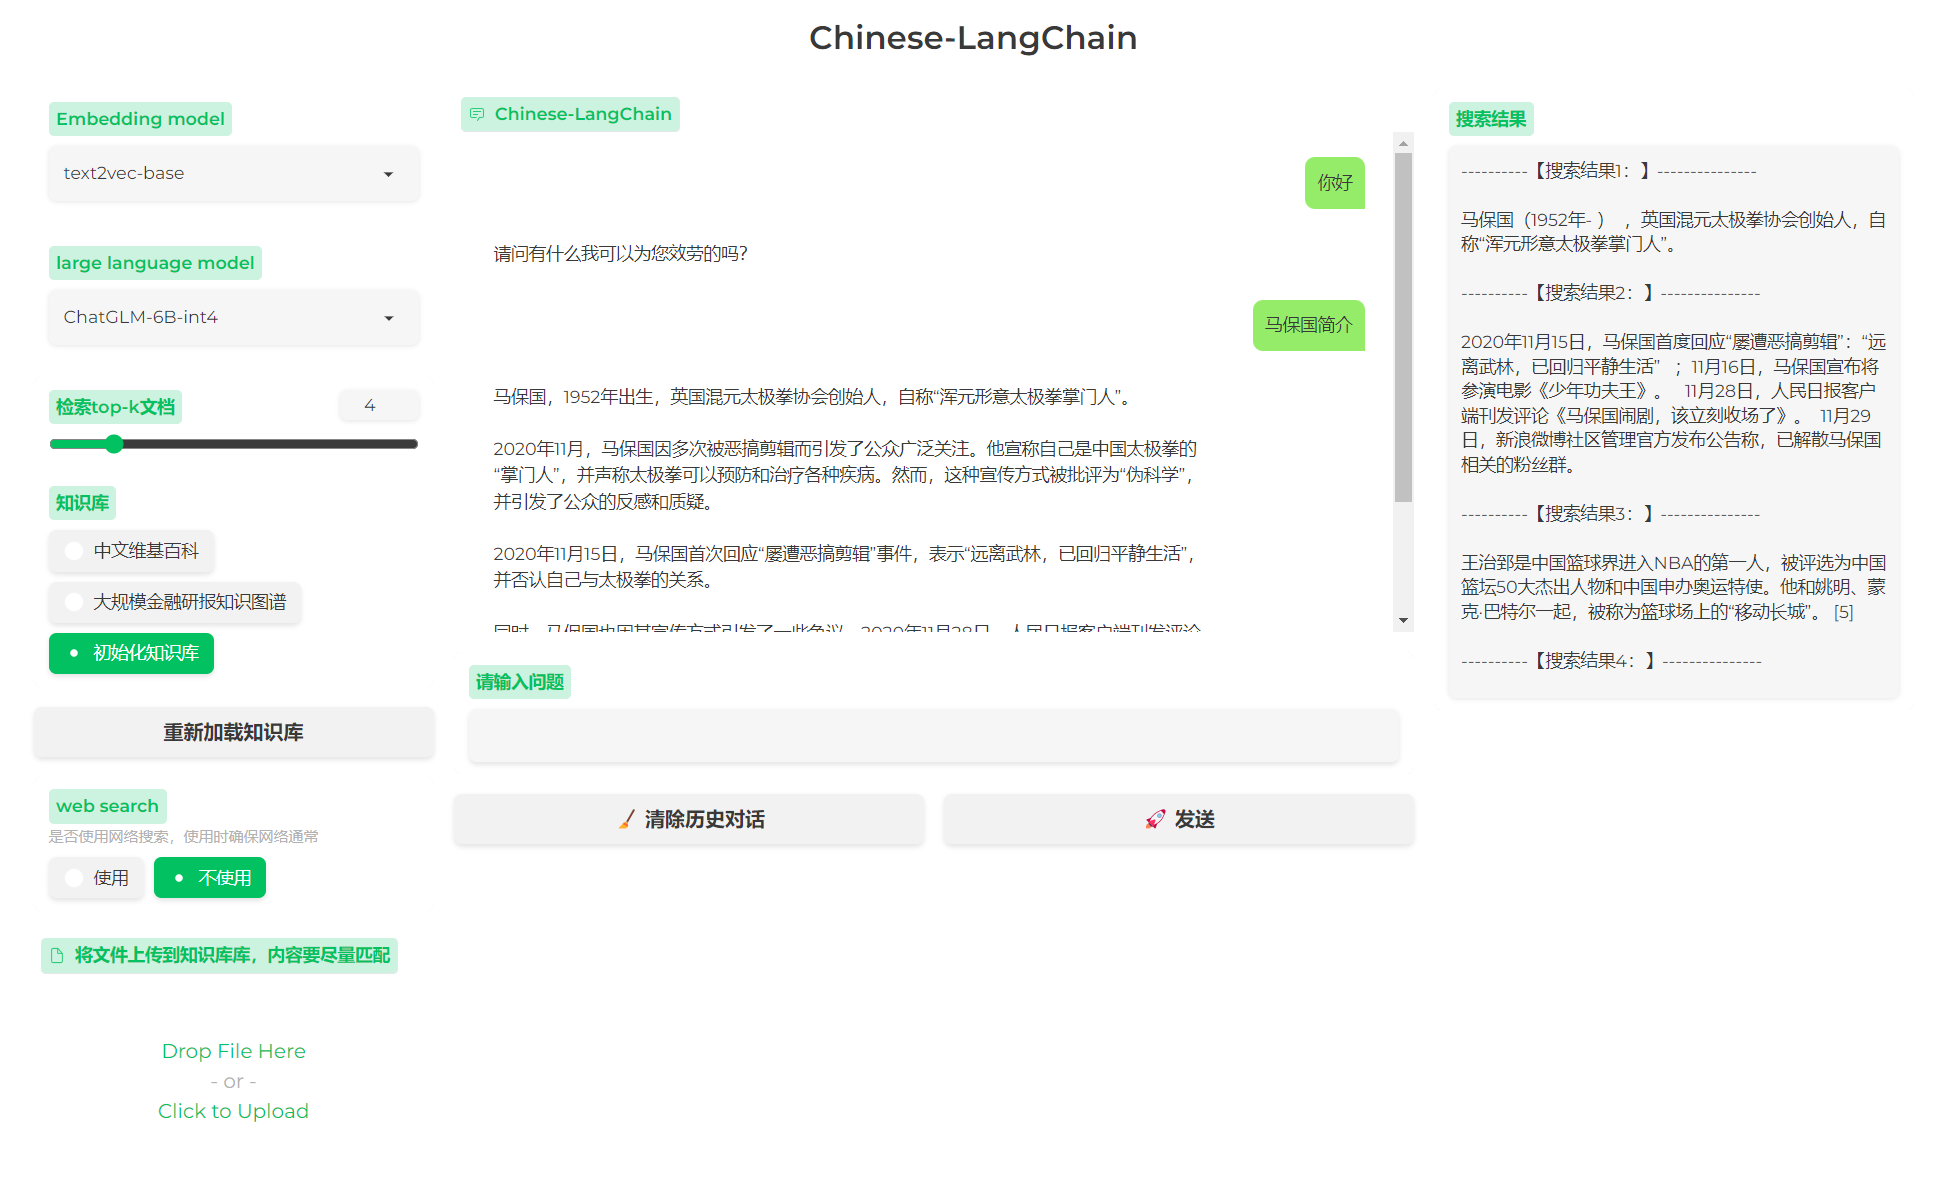
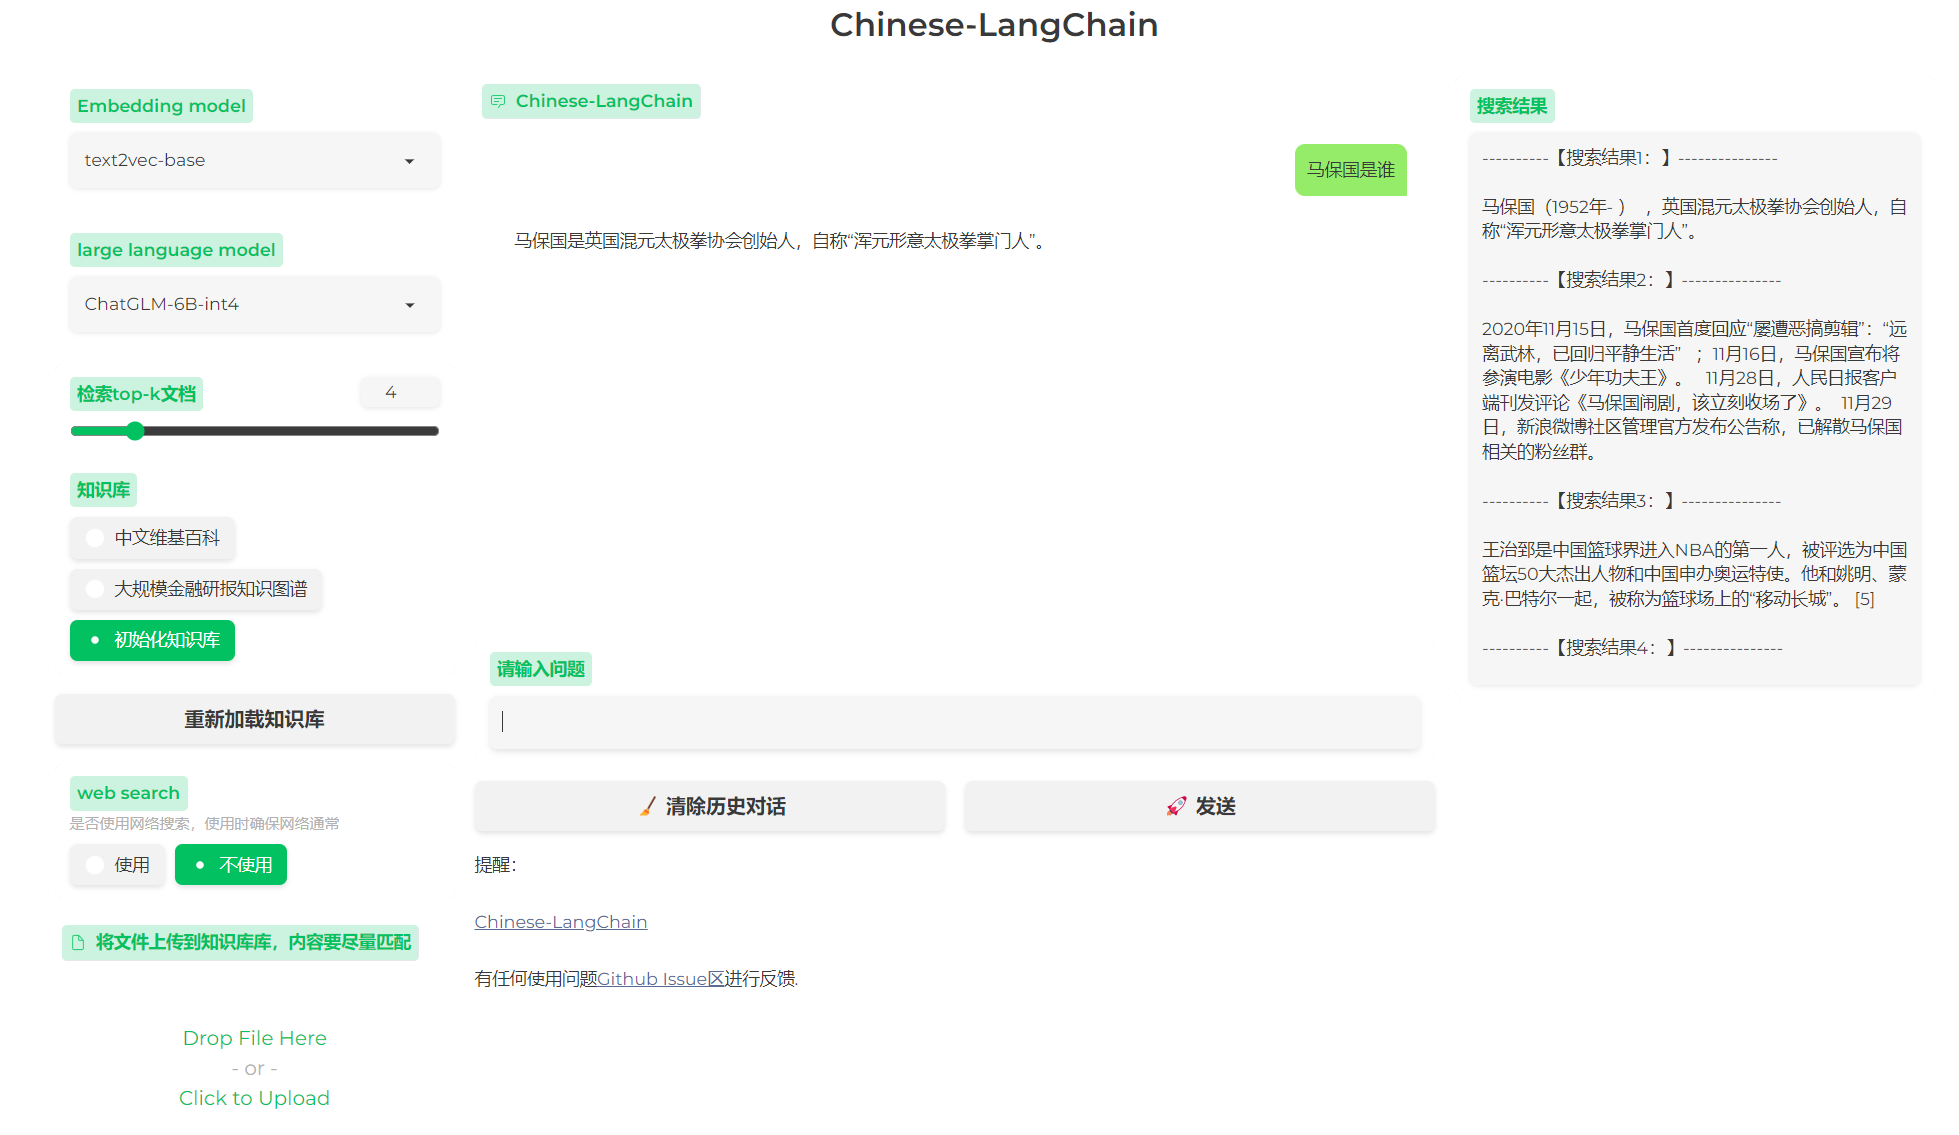
update@web_demo

diff --git a/app_modules/utils.py b/app_modules/utils.py
@@ -1,32 +1,16 @@
 # -*- coding:utf-8 -*-
 from __future__ import annotations
-from typing import TYPE_CHECKING, Any, Callable, Dict, List, Tuple, Type
-import logging
-import json
-import os
-import datetime
-import hashlib
-import csv
-import requests
-import re
-import html
-import markdown2
-import torch
-import sys
-import gc
-from pygments.lexers import guess_lexer, ClassNotFound
 
-import gradio as gr
-from pypinyin import lazy_pinyin
-import tiktoken
+import html
+import logging
+import re
+
 import mdtex2html
 from markdown import markdown
 from pygments import highlight
-from pygments.lexers import guess_lexer, get_lexer_by_name
 from pygments.formatters import HtmlFormatter
-import transformers
-from peft import PeftModel
-from transformers import GenerationConfig, LlamaForCausalLM, LlamaTokenizer
+from pygments.lexers import ClassNotFound
+from pygments.lexers import guess_lexer, get_lexer_by_name
 
 from app_modules.presets import *
 
@@ -241,142 +225,3 @@ class State:
 
 
 shared_state = State()
-
-
-# Greedy Search
-def greedy_search(input_ids: torch.Tensor,
-                  model: torch.nn.Module,
-                  tokenizer: transformers.PreTrainedTokenizer,
-                  stop_words: list,
-                  max_length: int,
-                  temperature: float = 1.0,
-                  top_p: float = 1.0,
-                  top_k: int = 25) -> Iterator[str]:
-    generated_tokens = []
-    past_key_values = None
-    current_length = 1
-    for i in range(max_length):
-        with torch.no_grad():
-            if past_key_values is None:
-                outputs = model(input_ids)
-            else:
-                outputs = model(input_ids[:, -1:], past_key_values=past_key_values)
-            logits = outputs.logits[:, -1, :]
-            past_key_values = outputs.past_key_values
-
-            # apply temperature
-            logits /= temperature
-
-            probs = torch.softmax(logits, dim=-1)
-            # apply top_p
-            probs_sort, probs_idx = torch.sort(probs, dim=-1, descending=True)
-            probs_sum = torch.cumsum(probs_sort, dim=-1)
-            mask = probs_sum - probs_sort > top_p
-            probs_sort[mask] = 0.0
-
-            # apply top_k
-            # if top_k is not None:
-            #    probs_sort1, _ = torch.topk(probs_sort, top_k)
-            #    min_top_probs_sort = torch.min(probs_sort1, dim=-1, keepdim=True).values
-            #    probs_sort = torch.where(probs_sort < min_top_probs_sort, torch.full_like(probs_sort, float(0.0)), probs_sort)
-
-            probs_sort.div_(probs_sort.sum(dim=-1, keepdim=True))
-            next_token = torch.multinomial(probs_sort, num_samples=1)
-            next_token = torch.gather(probs_idx, -1, next_token)
-
-            input_ids = torch.cat((input_ids, next_token), dim=-1)
-
-            generated_tokens.append(next_token[0].item())
-            text = tokenizer.decode(generated_tokens)
-
-            yield text
-            if any([x in text for x in stop_words]):
-                del past_key_values
-                del logits
-                del probs
-                del probs_sort
-                del probs_idx
-                del probs_sum
-                gc.collect()
-                return
-
-
-def generate_prompt_with_history(text, history, tokenizer, max_length=2048):
-    prompt = "The following is a conversation between a human and an AI assistant named Baize (named after a mythical creature in Chinese folklore). Baize is an open-source AI assistant developed by UCSD and Sun Yat-Sen University. The human and the AI assistant take turns chatting. Human statements start with [|Human|] and AI assistant statements start with [|AI|]. The AI assistant always provides responses in as much detail as possible, and in Markdown format. The AI assistant always declines to engage with topics, questions and instructions related to unethical, controversial, or sensitive issues. Complete the transcript in exactly that format.\n[|Human|]Hello!\n[|AI|]Hi!"
-    history = ["\n[|Human|]{}\n[|AI|]{}".format(x[0], x[1]) for x in history]
-    history.append("\n[|Human|]{}\n[|AI|]".format(text))
-    history_text = ""
-    flag = False
-    for x in history[::-1]:
-        if tokenizer(prompt + history_text + x, return_tensors="pt")['input_ids'].size(-1) <= max_length:
-            history_text = x + history_text
-            flag = True
-        else:
-            break
-    if flag:
-        return prompt + history_text, tokenizer(prompt + history_text, return_tensors="pt")
-    else:
-        return None
-
-
-def is_stop_word_or_prefix(s: str, stop_words: list) -> bool:
-    for stop_word in stop_words:
-        if s.endswith(stop_word):
-            return True
-        for i in range(1, len(stop_word)):
-            if s.endswith(stop_word[:i]):
-                return True
-    return False
-
-
-def load_tokenizer_and_model(base_model, adapter_model, load_8bit=False):
-    if torch.cuda.is_available():
-        device = "cuda"
-    else:
-        device = "cpu"
-
-    try:
-        if torch.backends.mps.is_available():
-            device = "mps"
-    except:  # noqa: E722
-        pass
-    tokenizer = LlamaTokenizer.from_pretrained(base_model)
-    if device == "cuda":
-        model = LlamaForCausalLM.from_pretrained(
-            base_model,
-            load_in_8bit=load_8bit,
-            torch_dtype=torch.float16,
-            device_map="auto",
-        )
-        model = PeftModel.from_pretrained(
-            model,
-            adapter_model,
-            torch_dtype=torch.float16,
-        )
-    elif device == "mps":
-        model = LlamaForCausalLM.from_pretrained(
-            base_model,
-            device_map={"": device},
-            torch_dtype=torch.float16,
-        )
-        model = PeftModel.from_pretrained(
-            model,
-            adapter_model,
-            device_map={"": device},
-            torch_dtype=torch.float16,
-        )
-    else:
-        model = LlamaForCausalLM.from_pretrained(
-            base_model, device_map={"": device}, low_cpu_mem_usage=True
-        )
-        model = PeftModel.from_pretrained(
-            model,
-            adapter_model,
-            device_map={"": device},
-        )
-
-    if not load_8bit:
-        model.half()  # seems to fix bugs for some users.
-
-    model.eval()
-    return tokenizer, model, device

diff --git a/main.py b/main.py
@@ -1,7 +1,6 @@
 import os
 import shutil
 
-import gradio as gr
 from app_modules.presets import *
 from clc.langchain_application import LangChainApplication
 
@@ -93,6 +92,7 @@ def predict(input,
     search_text += web_content
     return '', history, history, search_text
 
+
 with open("assets/custom.css", "r", encoding="utf-8") as f:
     customCSS = f.read()
 with gr.Blocks(css=customCSS, theme=small_and_beautiful_theme) as demo:
@@ -147,14 +147,20 @@ with gr.Blocks(css=customCSS, theme=small_and_beautiful_theme) as demo:
                         outputs=None)
         with gr.Column(scale=4):
             with gr.Row():
-                with gr.Column(scale=4):
-                    chatbot = gr.Chatbot(label='Chinese-LangChain').style(height=400)
-                    message = gr.Textbox(label='请输入问题')
-                    with gr.Row():
-                        clear_history = gr.Button("🧹 清除历史对话")
-                        send = gr.Button("🚀 发送")
-                with gr.Column(scale=2):
-                    search = gr.Textbox(label='搜索结果')
+                chatbot = gr.Chatbot(label='Chinese-LangChain').style(height=400)
+            with gr.Row():
+                message = gr.Textbox(label='请输入问题')
+            with gr.Row():
+                clear_history = gr.Button("🧹 清除历史对话")
+                send = gr.Button("🚀 发送")
+            with gr.Row():
+                gr.Markdown("""提醒：<br>
+                                        [Chinese-LangChain](https://github.com/yanqiangmiffy/Chinese-LangChain) <br>
+                                        有任何使用问题[Github Issue区](https://github.com/yanqiangmiffy/Chinese-LangChain)进行反馈. <br>
+                                        """)
+        with gr.Column(scale=2):
+            search = gr.Textbox(label='搜索结果')
+
         set_kg_btn.click(
             set_knowledge,
             show_progress=True,
@@ -185,10 +191,7 @@ with gr.Blocks(css=customCSS, theme=small_and_beautiful_theme) as demo:
                            state
                        ],
                        outputs=[message, chatbot, state, search])
-    gr.Markdown("""提醒：<br>
-            [Chinese-LangChain](https://github.com/yanqiangmiffy/Chinese-LangChain) <br>
-            有任何使用问题[Github Issue区](https://github.com/yanqiangmiffy/Chinese-LangChain)进行反馈. <br>
-            """)
+
 demo.queue(concurrency_count=2).launch(
     server_name='0.0.0.0',
     server_port=8888,

diff --git a/app_modules/overwrites.py b/app_modules/overwrites.py
@@ -1,25 +1,12 @@
 from __future__ import annotations
-import logging
 
-from llama_index import Prompt
 from typing import List, Tuple
-import mdtex2html
 
-from app_modules.presets import *
 from app_modules.utils import *
-
-def compact_text_chunks(self, prompt: Prompt, text_chunks: List[str]) -> List[str]:
-    logging.debug("Compacting text chunks...🚀🚀🚀")
-    combined_str = [c.strip() for c in text_chunks if c.strip()]
-    combined_str = [f"[{index+1}] {c}" for index, c in enumerate(combined_str)]
-    combined_str = "\n\n".join(combined_str)
-    # resplit based on self.max_chunk_overlap
-    text_splitter = self.get_text_splitter_given_prompt(prompt, 1, padding=1)
-    return text_splitter.split_text(combined_str)
 
 
 def postprocess(
-    self, y: List[Tuple[str | None, str | None]]
+        self, y: List[Tuple[str | None, str | None]]
 ) -> List[Tuple[str | None, str | None]]:
     """
     Parameters:
@@ -39,13 +26,17 @@ def postprocess(
         temp.append((user, bot))
     return temp
 
-with open("./assets/custom.js", "r", encoding="utf-8") as f, open("./assets/Kelpy-Codos.js", "r", encoding="utf-8") as f2:
+
+with open("./assets/custom.js", "r", encoding="utf-8") as f, open("./assets/Kelpy-Codos.js", "r",
+                                                                  encoding="utf-8") as f2:
     customJS = f.read()
     kelpyCodos = f2.read()
+
 
 def reload_javascript():
     print("Reloading javascript...")
     js = f'<script>{customJS}</script><script>{kelpyCodos}</script>'
+
     def template_response(*args, **kwargs):
         res = GradioTemplateResponseOriginal(*args, **kwargs)
         res.body = res.body.replace(b'</html>', f'{js}</html>'.encode("utf8"))
@@ -53,5 +44,6 @@ def reload_javascript():
         return res
 
     gr.routes.templates.TemplateResponse = template_response
+
 
 GradioTemplateResponseOriginal = gr.routes.templates.TemplateResponse

diff --git a/README.md b/README.md
@@ -11,8 +11,9 @@
 
 ## 🚀 特性
 
-- 🚀 2023/04/19 增加web search功能，需要确保网络畅通！
-- 🚀 2023/04/18 webui增加知识库选择功能
+- 🐯 2023/04/19 引入ChuanhuChatGPT皮肤
+- 📱 2023/04/19 增加web search功能，需要确保网络畅通！
+- 📚 2023/04/18 webui增加知识库选择功能
 - 🚀 2023/04/18 修复推理预测超时5s报错问题
 - 🎉 2023/04/17 支持多种文档上传与内容解析：pdf、docx，ppt等
 - 🎉 2023/04/17 支持知识增量更新
